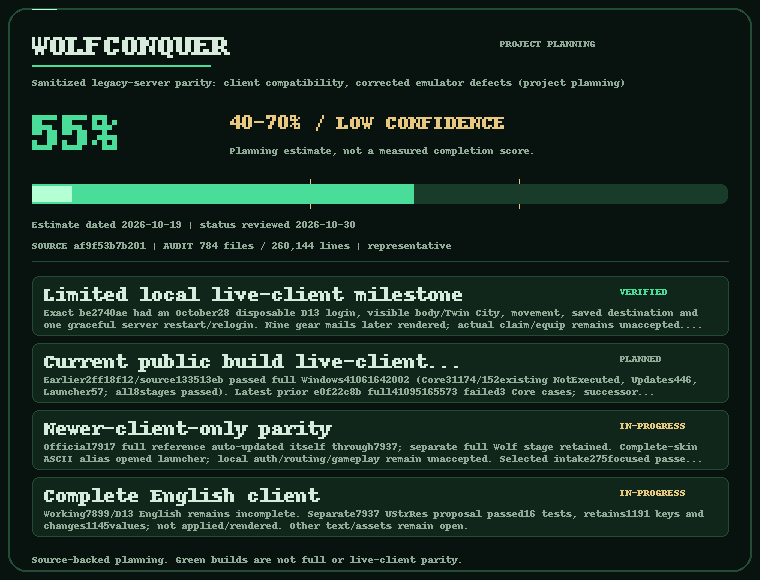
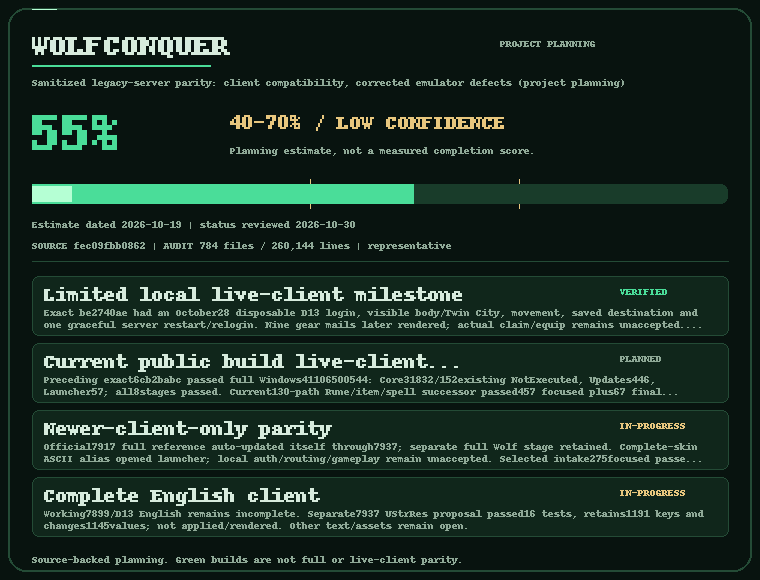
Refresh parity tracker [skip ci]

diff --git a/docs/parity/PROGRESS.md b/docs/parity/PROGRESS.md
@@ -8,7 +8,7 @@ Planning estimate: **55%**, range **40-70%**, **low confidence**. This is not a 
 
 Estimate date: **2026-10-19**. Status review date: **2026-10-30**. Reviewing the status does not refresh the estimate's age.
 
-Source commit: `af9f53b7b201d921fde0e728b6eb95ee7d05c0af` (short: `af9f53b7b201`).
+Source commit: `fec09fbb0862e39ff173e7172bac81a5af527943` (short: `fec09fbb0862`).
 
 Source audit: 2026-10-19; 784 files; 260,144 lines; target comparison: **representative**. Inventory counts are not implementation proof.
 
@@ -19,7 +19,7 @@ A green test suite is not a live-client, complete-English, or full-parity certif
 | Milestone | Status | Detail |
 | --- | --- | --- |
 | Limited local live-client milestone | verified | Exact be2740ae had an October28 disposable D13 login, visible body/Twin City, movement, saved destination and one graceful server restart/relogin. Nine gear mails later rendered; actual claim/equip remains unaccepted. This does not qualify current main or7935 gameplay. |
-| Current public build live-client acceptance | planned | Earlier2ff18f12/source133513eb passed full Windows41061642002 (Core31174/152existing NotExecuted, Updates446, Launcher57; all8stages passed). Latest prior e0f22c8b full41095165573 failed3 Core cases; successor corrections passed737 focused plus13 corrected controls. Its exact public-commit full gate and current-main live-client acceptance remain required. |
+| Current public build live-client acceptance | planned | Preceding exact6cb2babc passed full Windows41106500544: Core31832/152existing NotExecuted, Updates446, Launcher57; all8stages passed. Current130-path Rune/item/spell successor passed457 focused plus67 final affected controls, overlapping. Its exact-public full gate and current-main live-client acceptance remain pending. |
 | Complete English client | in-progress | Working7899/D13 English remains incomplete. Separate7937 UStrRes proposal passed16 tests, retains1191 keys and changes1145values; not applied/rendered. Other text/assets remain open. |
 | Newer-client-only parity | in-progress | Official7917 full reference auto-updated itself through7937; separate full Wolf stage retained. Complete-skin ASCII alias opened launcher; local auth/routing/gameplay remain unaccepted. Selected intake275focused passed; actual old65 schema refusal led to observed strict67-field main57093/Sub1693 rows. Typed envelope Build05/294focused passed; actual managed intake0 retained both67-field catalogs; non-ID meanings/runtime/cost/save owners remain open. No newer-client completion percentage. |
 | Public full-client download and updates | in-progress | Tooling preview launcher-preview-20261028 remains immutable at224f1eb5; anonymous HTTPS ZIP/checksum downloads match its checked nine-file package. New source adds two exact reviewed data paths (446 updater cases plus7 scripts); token\_type.dat remains quarantined. No full game assets, portable configuration or real client feed are published. Fresh full-client install/update/recovery acceptance remains open. |
@@ -29,8 +29,8 @@ A green test suite is not a live-client, complete-English, or full-parity certif
 | Domain | Status | Implemented evidence | Remaining work |
 | --- | --- | --- | --- |
 | Transport, authentication and startup | partial | Packet/cipher/startup paths validate envelopes and configured UID domains. Owned process/restart controls and one local D13 login/walk fixture have passed. Ordinary admission now loads saved physical class/level after durable commit. Native account-to-world handoff, complete ownership and current-public client acceptance remain open. | Prove the authenticated native account-to-world handoff and protected D13 login payload; complete ownership and loader joins, then verify the published build and staged endpoint migration with the actual client. |
-| Shared player, items and persistence | partial | Selected storage/mailbox/Trade/booth/equipment/learning/consumables use real saved transactions. Existing configured UID custody now recovers exact conserved two-owner trade/refund and booth-purchase v1 intent before ordinary admission;97 trade/90 vendor and4 new managed Program-host controls passed. Native graph ownership, production SQL, retained producer work and broader recovery remain open. | Prove client warehouse cache/resynchronization behavior after committed-but-undelivered mutations. Finish one shared native player/item graph, login-loader, real login/save worker, production callers, legacy SQL/provider compatibility and restart recovery. |
-| Combat, monsters and death | partial | Selected combat/status/AI/death paths have source proof. Current XP/Fly prerequisites precede costs, Caprice uses a real paired Character commitment and exact-record continuation, and valid pending wire output is preserved. Full Windows50cf80fa passes. Physical Stamina, complete casts/native executors and multiplayer/client acceptance remain open. | Complete all callers, native arithmetic and shared RNG/order semantics, drops, lifetime ownership and multi-player/client scenarios. |
+| Shared player, items and persistence | partial | Selected storage/mailbox/Trade/booth/equipment/learning/consumables use owned saved transactions. Recorded trade/vendor recovery passed the preceding full6cb gate. Current source adds bounded book/item/spell recovery, Rune grant origins, atomic Rune container/drop and exact writer-bound publication;457 broad plus67 final affected controls passed (overlapping). Full current gate, native graph/SQL and broader recovery remain open. | Prove client warehouse cache/resynchronization behavior after committed-but-undelivered mutations. Finish one shared native player/item graph, login-loader, real login/save worker, production callers, legacy SQL/provider compatibility and restart recovery. |
+| Combat, monsters and death | partial | Selected combat/status/AI/death paths have source proof. Current Rune casting joins actual adopted classification, native normal/alternate providers and Beast state before costs. Passive raw-self items no longer mint phantom learned skills; complete passive effects and Rune progression remain open. Prior combat/full-gate results do not prove current-client multiplayer acceptance. | Complete all callers, native arithmetic and shared RNG/order semantics, drops, lifetime ownership and multi-player/client scenarios. |
 | NPCs, shops, progression and housing | partial | Dispatch, shops, forging, skills, quest metadata and durable rewards exist. Managed VIP, promotion, donation-to-CP/bank and permanent Chi purchases validate/commit before publication. Housing parsing preserves coherent graphs; authenticated adoption, entry and furniture economy remain unfinished. | Close deferred mutations and exact economy/persistence ordering; complete housing, occupants and furniture lifecycle. |
 | Trade, social systems and events | partial | Managed Trade/booth exchanges use ordered participant commits and a shared WAL. Owned startup recovery now reconciles exact recorded pair intent, including partial item swaps, real escrow refund/exchange and complete vendor closures. Source fixtures cover restart without replay; guild/clan/event/native ownership and multiplayer client acceptance remain open. | Complete native/social/event ownership and real-client multiplayer acceptance. Broader inventory/storage and booth raw-writer/delivery lifecycles, remaining guild/union actions, brackets, rewards, claims, reset, database parity and durable recovery remain open; scoped managed tests do not certify all transfers. |
 | Cross-server and casino workflows | partial | Group/travel metadata, startup packets, poker data and visibility surfaces exist. | Complete genuine transfer/return/session/economy ownership and failure handling; verify table rounds, betting, pot and settlement. |
